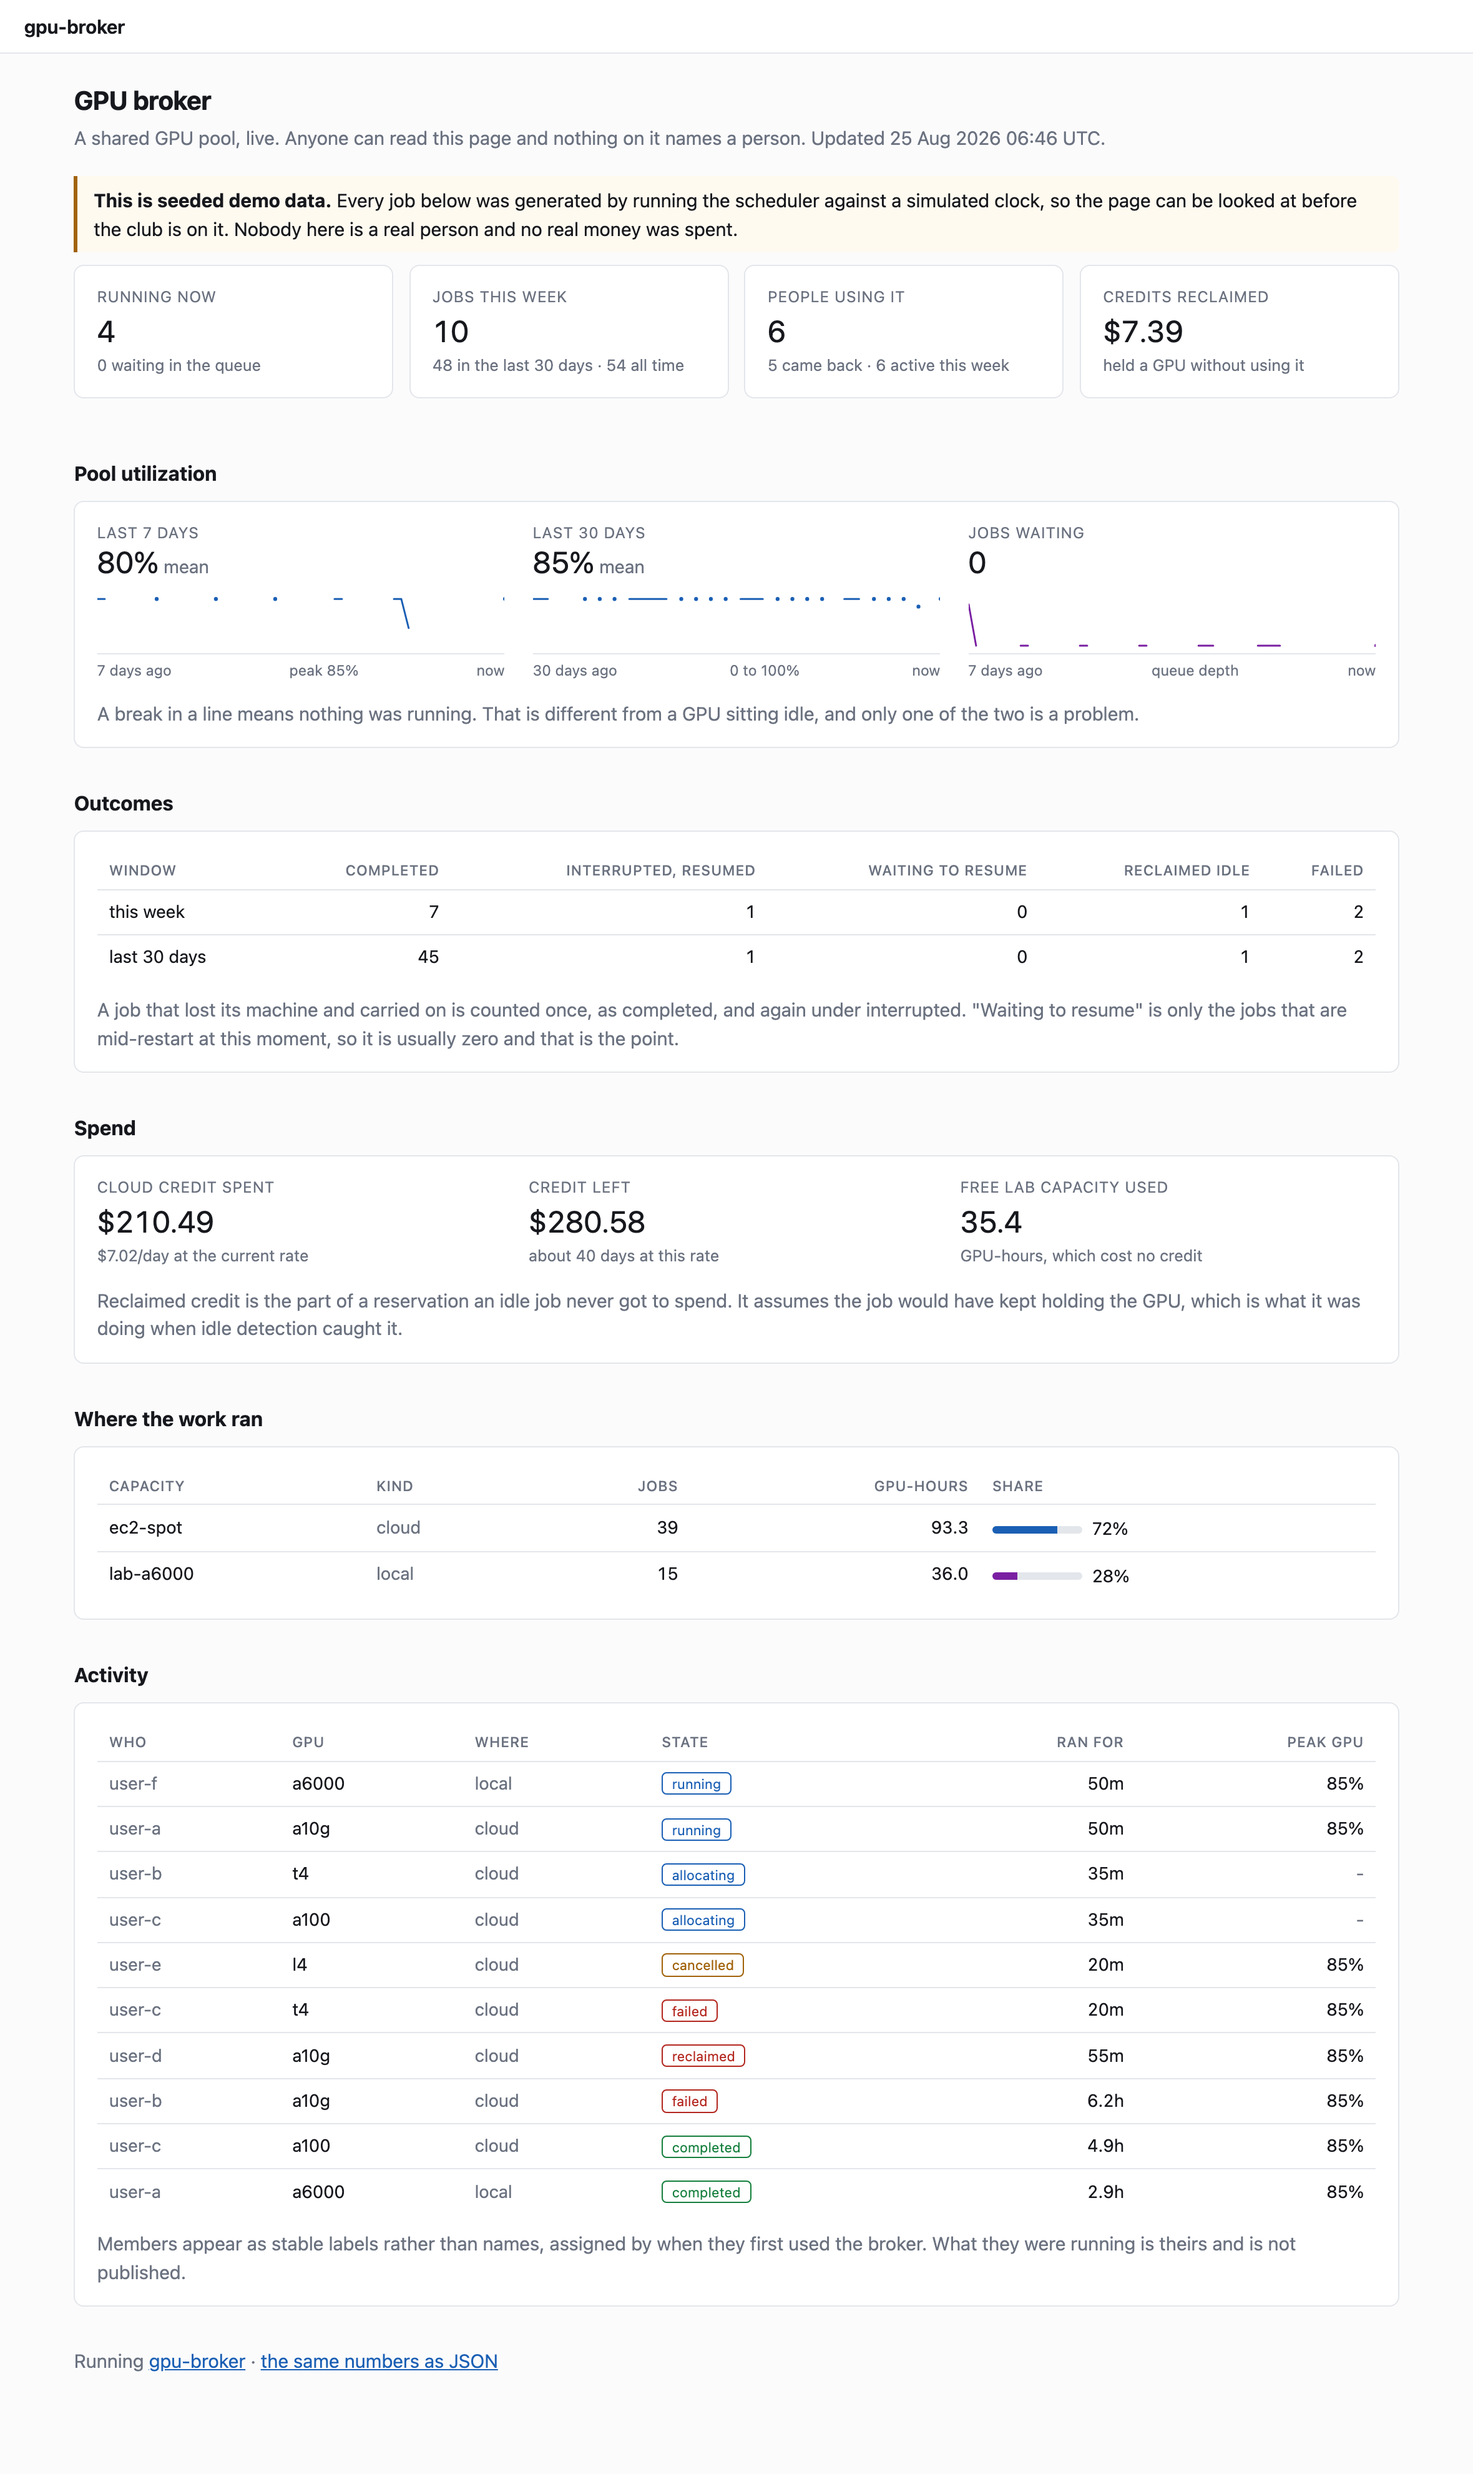
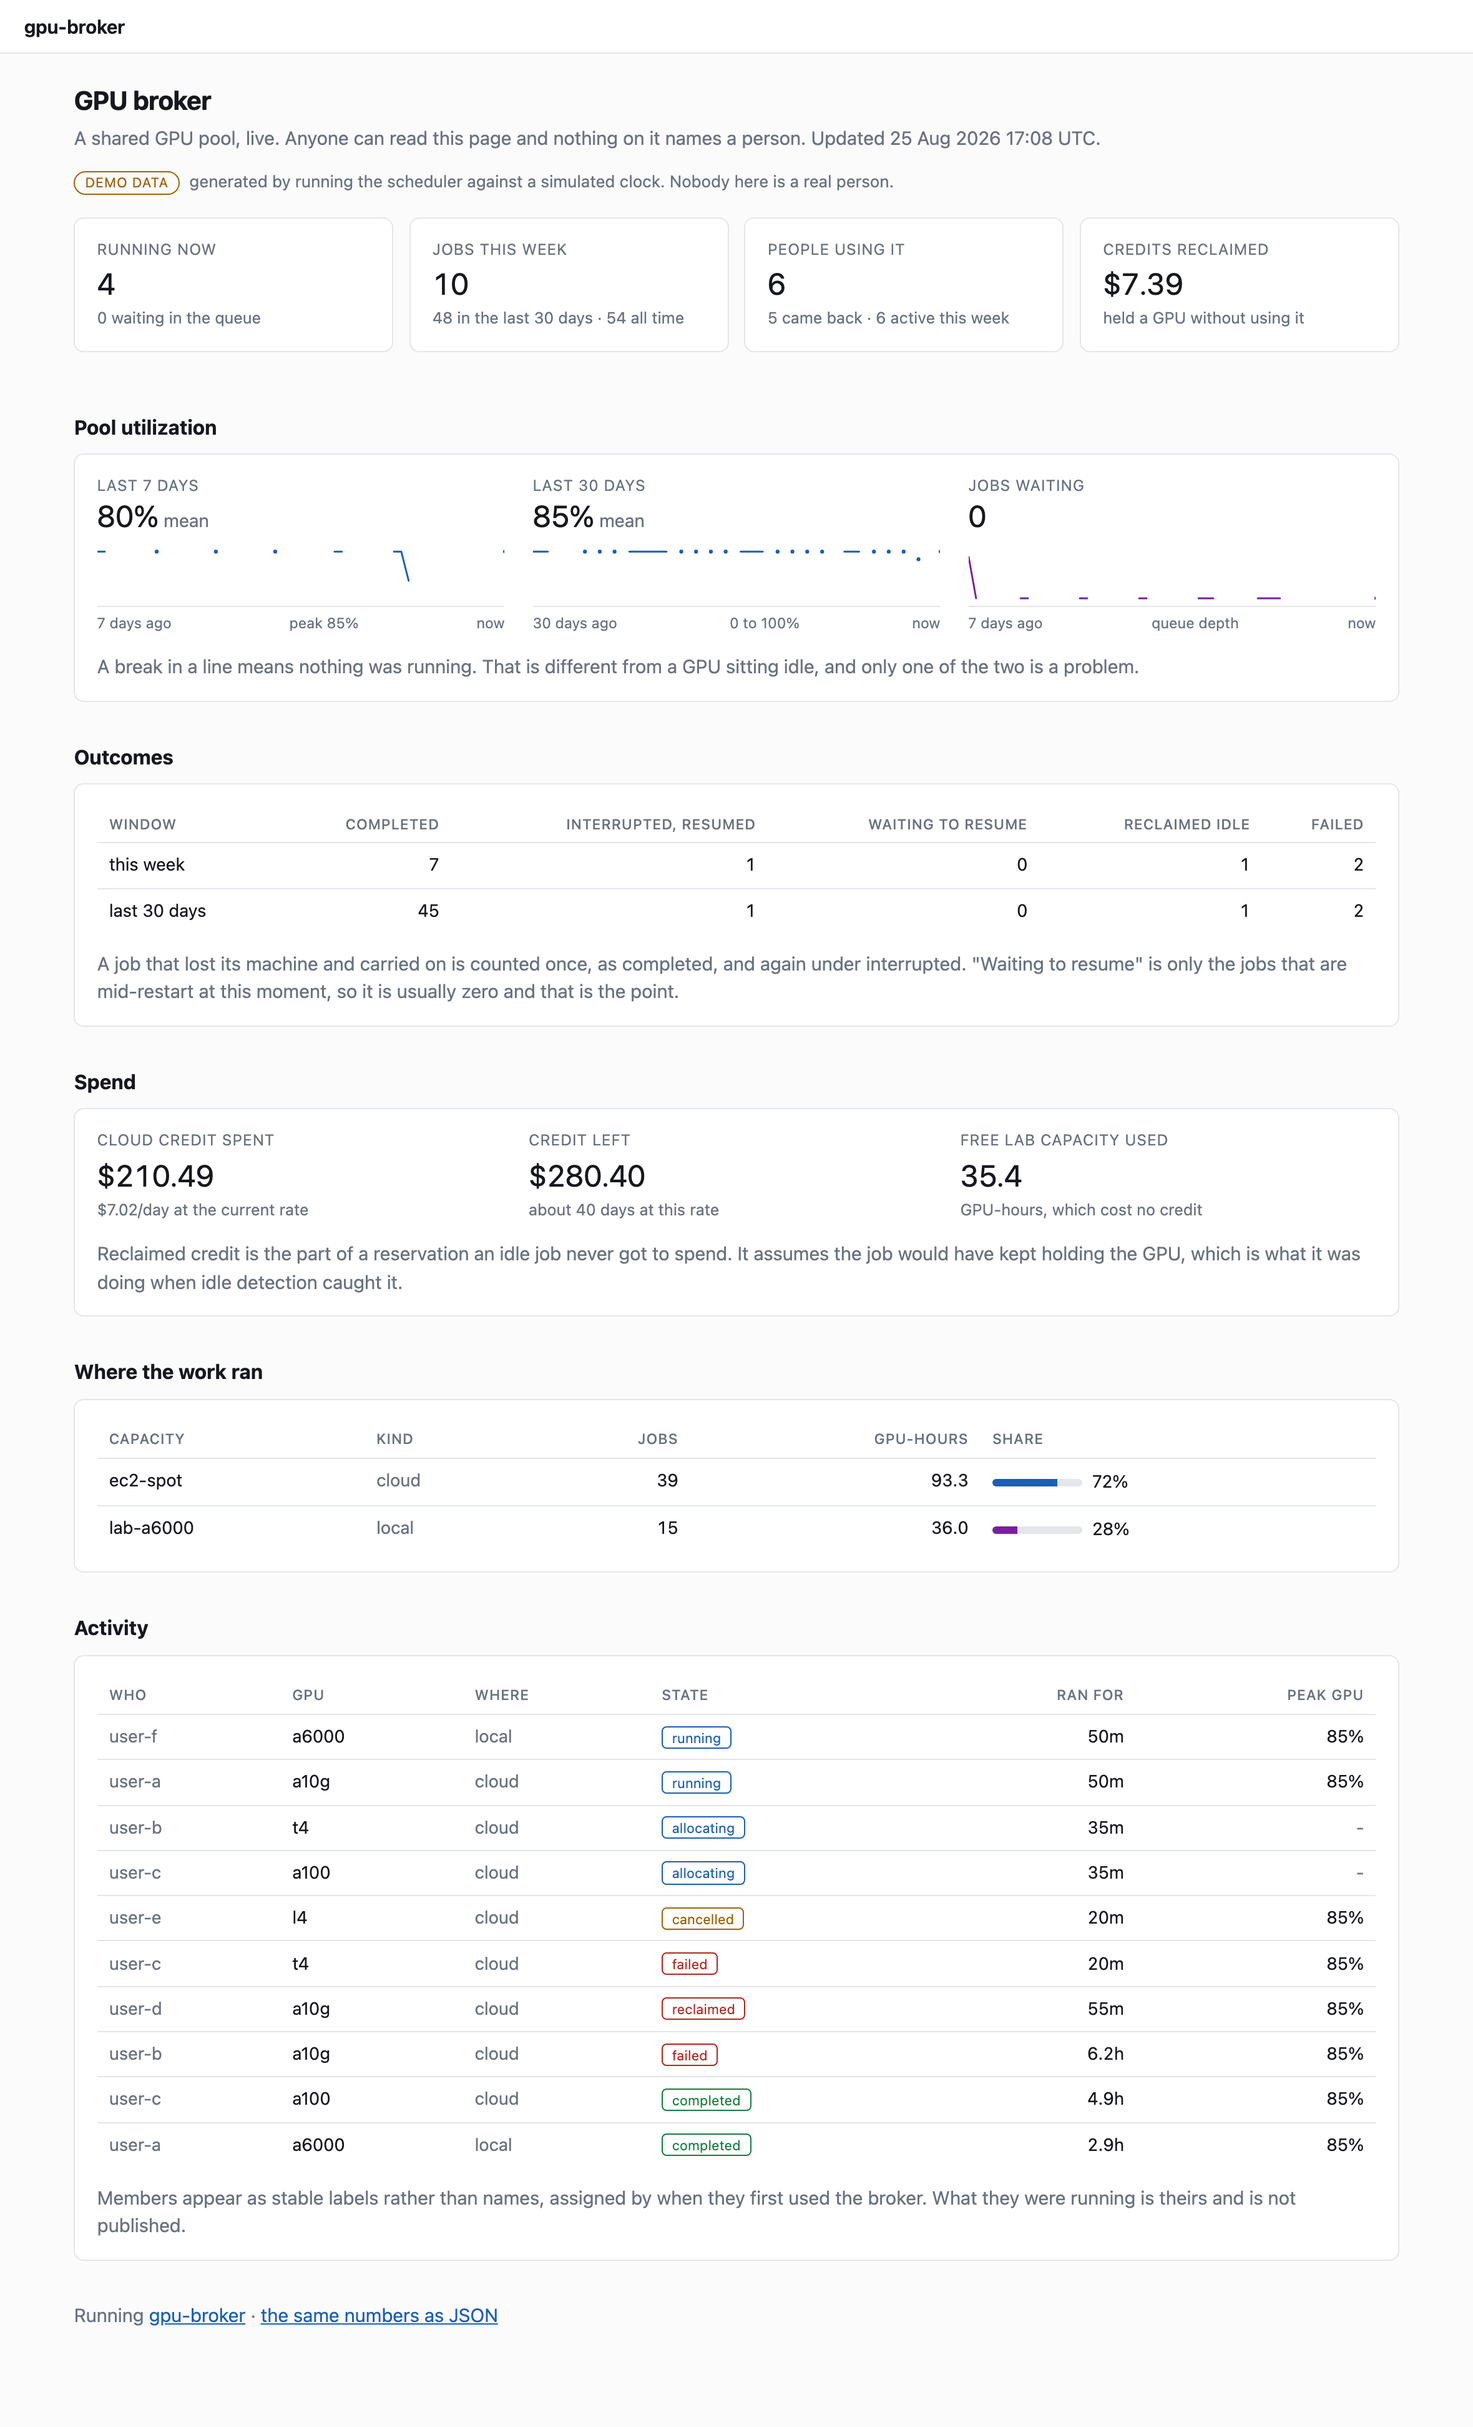
Make the demo marker proportionate
A full-width warning panel was louder than the fact deserves. It is now a
small pill on one line.

Still present, and still not optional. The numbers on that page are
generated, and it is linked from the repo homepage at people who were not
there to know that. Small is fine; absent is a claim about twenty club
members who do not exist.

diff --git a/gpu_broker/web/templates/status.html b/gpu_broker/web/templates/status.html
@@ -13,11 +13,12 @@
 {% else %}
 
 {% if status.demo %}
-<p class="note demo">
-  <strong>This is seeded demo data.</strong> Every job below was generated by
-  running the scheduler against a simulated clock, so the page can be looked at
-  before the club is on it. Nobody here is a real person and no real money was
-  spent.
+{# Small, but not absent. The numbers below are generated, and this page is
+   meant to be linked at people who were not there to know that. #}
+<p class="dim marker">
+  <span class="pill">demo data</span>
+  generated by running the scheduler against a simulated clock. Nobody here is a
+  real person.
 </p>
 {% endif %}
 

diff --git a/gpu_broker/web/static/app.css b/gpu_broker/web/static/app.css
@@ -66,4 +66,7 @@ button.quiet { background: #fff; color: var(--bad); border-color: var(--line); }
 #logs .broker { color: #8ea7c9; }
 .dim { color: var(--dim); }
 .empty { color: var(--dim); padding: 1.2rem 0; }
-.note.demo { border-color: var(--warn); color: inherit; }
+.marker { font-size: .88em; margin: -.3rem 0 1.1rem; }
+.pill { display: inline-block; border: 1px solid var(--warn); color: var(--warn);
+  border-radius: 999px; padding: .05rem .5rem; font-size: .82em;
+  text-transform: uppercase; letter-spacing: .04em; margin-right: .25rem; }
